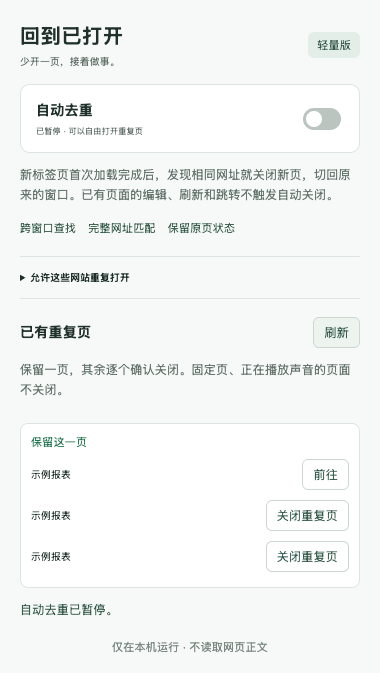
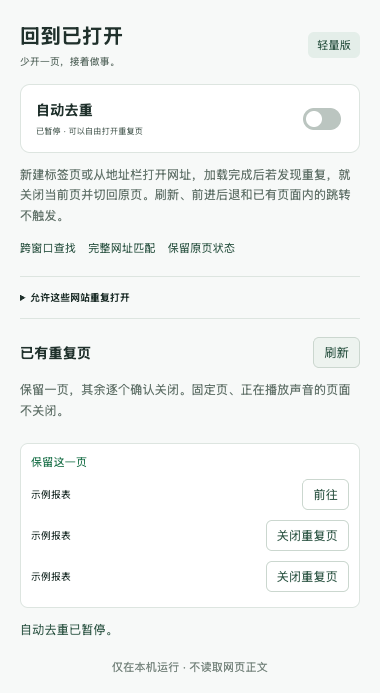
fix: deduplicate address-bar navigation in existing tabs

diff --git a/tests/core.test.js b/tests/core.test.js
@@ -98,6 +98,74 @@ test('已有页跳转、刷新和首次加载结束后的 SPA 跳转都不自动
   assert.equal(f.tabs.size, 3);
 });
 
+const addressNavigation = (id, extra = {}) => ({
+  tabId: id, frameId: 0, url: URL_A, transitionType: 'typed',
+  transitionQualifiers: ['from_address_bar'], ...extra
+});
+
+test('已有标签粘贴网址回车：等待加载完成，再关闭当前页并保留原页', async () => {
+  const f = fixture([tab(1), tab(2, { status: 'loading' })]);
+  const c = f.controller();
+  await c.committed(addressNavigation(2));
+  assert.equal(f.tabs.size, 2);
+  f.tabs.get(2).status = 'complete';
+  await c.updated(2);
+  assert.deepEqual([...f.tabs.keys()], [1]);
+});
+
+test('地址栏选择建议产生 link 类型时仍可去重', async () => {
+  const f = fixture([tab(1), tab(2)]);
+  await f.controller().committed(addressNavigation(2, { transitionType: 'link' }));
+  assert.deepEqual([...f.tabs.keys()], [1]);
+});
+
+test('刷新、前进后退、站内点击、表单和子框架不会激活已有页去重', async () => {
+  for (const extra of [
+    { transitionType: 'reload' },
+    { transitionQualifiers: ['from_address_bar', 'forward_back'] },
+    { transitionType: 'link', transitionQualifiers: [] },
+    { transitionType: 'form_submit', transitionQualifiers: [] },
+    { frameId: 1 }
+  ]) {
+    const f = fixture([tab(1), tab(2)]);
+    const c = f.controller();
+    await c.committed(addressNavigation(2, extra));
+    await c.updated(2);
+    assert.equal(f.tabs.size, 2);
+  }
+});
+
+test('地址栏资格不沿用到后续站内导航，也不关闭不同查询的页面', async () => {
+  const f = fixture([tab(1), tab(2, { status: 'loading' })]);
+  const c = f.controller();
+  await c.committed(addressNavigation(2));
+  await c.committed(addressNavigation(2, { transitionType: 'link', transitionQualifiers: [] }));
+  f.tabs.get(2).status = 'complete';
+  await c.updated(2);
+  assert.equal(f.tabs.size, 2);
+  f.tabs.get(2).url = URL_A.replace('100', '101');
+  await c.committed(addressNavigation(2, { url: f.tabs.get(2).url }));
+  assert.equal(f.tabs.size, 2);
+});
+
+test('地址栏导航同样遵守暂停、排除、固定、声音和无痕保护', async () => {
+  for (const extra of [{ pinned: true }, { audible: true }, { incognito: true }]) {
+    const f = fixture([tab(1), tab(2, extra)]);
+    await f.controller().committed(addressNavigation(2));
+    assert.equal(f.tabs.size, 2);
+  }
+  for (const settings of [
+    { enabled: false, excludedHosts: [] },
+    { enabled: true, excludedHosts: ['work.example'] }
+  ]) {
+    const f = fixture([tab(1), tab(2)]);
+    const c = f.controller();
+    await c.setSettings(settings);
+    await c.committed(addressNavigation(2));
+    assert.equal(f.tabs.size, 2);
+  }
+});
+
 test('新空白页可稍后输入地址；慢加载超过一分钟不再自动关闭', async () => {
   const f = fixture();
   const c = f.controller();

diff --git a/extension/core.js b/extension/core.js
@@ -115,7 +115,7 @@ export function createController(api, now = Date.now) {
     const candidate = session.pending[id];
     if (!candidate) return;
     const tab = await getTab(id);
-    if (!tab || !settings.enabled || now() < session.skipUntil) {
+    if (!tab || !settings.enabled || (now() < session.skipUntil && !candidate.committedUrl)) {
       delete session.pending[id];
       await saveSession();
       return;
@@ -136,6 +136,8 @@ export function createController(api, now = Date.now) {
     // 首个网页加载完成后结束资格，后续编辑和站内跳转不触发。
     delete session.pending[id];
     await saveSession();
+    // 地址栏导航完成前又跳到其他页面时，旧导航资格不能沿用。
+    if (candidate.committedUrl && tab.url !== candidate.committedUrl) return;
     const key = pageKey(tab, settings);
     if (!key || !canClose(tab)) return;
     const tabs = await api.tabs.query({});
@@ -153,6 +155,25 @@ export function createController(api, now = Date.now) {
       await inspect(tab.id);
     }),
     updated: id => run(() => inspect(id)),
+    committed: details => run(async () => {
+      if (details.frameId !== 0) return;
+      const qualifiers = details.transitionQualifiers || [];
+      const fromAddressBar = details.transitionType !== 'reload' &&
+        !qualifiers.includes('forward_back') &&
+        (details.transitionType === 'typed' || qualifiers.includes('from_address_bar'));
+      if (!fromAddressBar) {
+        // 页面点击、表单提交或后退不能继承前一次地址栏导航的去重资格。
+        if (session.pending[details.tabId]?.committedUrl) {
+          delete session.pending[details.tabId];
+          await saveSession();
+        }
+        return;
+      }
+      if (!settings.enabled || !/^https?:\/\//.test(details.url)) return;
+      session.pending[details.tabId] = { startedAt: now(), committedUrl: details.url };
+      await saveSession();
+      await inspect(details.tabId);
+    }),
     removed: id => run(async () => {
       delete session.pending[id];
       await saveSession();

diff --git a/extension/popup.js b/extension/popup.js
@@ -22,7 +22,7 @@ function action(button, task) {
 function updateMode() {
   $('#enabled').checked = settings.enabled;
   $('#enabled').disabled = false;
-  $('#mode').textContent = settings.enabled ? '已开启 · 新开的重复页自动返回' : '已暂停 · 可以自由打开重复页';
+  $('#mode').textContent = settings.enabled ? '已开启 · 重复打开自动返回' : '已暂停 · 可以自由打开重复页';
 }
 function tabRow(tab, label, task) {
   const row = document.createElement('div');
@@ -74,7 +74,7 @@ $('#enabled').addEventListener('change', async () => {
   $('#enabled').disabled = true;
   try {
     settings = await send('settings', { value: { ...settings, enabled: $('#enabled').checked } });
-    status(settings.enabled ? '已恢复，从之后新开的标签页开始处理。' : '自动去重已暂停。');
+    status(settings.enabled ? '已恢复，从下一次新建标签或地址栏导航开始处理。' : '自动去重已暂停。');
   } catch (error) { status(error.message, true); }
   finally { updateMode(); }
 });

diff --git a/extension/popup.html b/extension/popup.html
@@ -16,7 +16,7 @@
       <span><strong>自动去重</strong><small id="mode">正在读取设置…</small></span>
       <input type="checkbox" id="enabled" role="switch" disabled>
     </label>
-    <p class="hint">新标签页首次加载完成后，发现相同网址就关闭新页，切回原来的窗口。已有页面的编辑、刷新和跳转不触发自动关闭。</p>
+    <p class="hint">新建标签页或从地址栏打开网址，加载完成后若发现重复，就关闭当前页并切回原页。刷新、前进后退和已有页面内的跳转不触发。</p>
     <div class="rules"><span>跨窗口查找</span><span>完整网址匹配</span><span>保留原页状态</span></div>
     <details>
       <summary>允许这些网站重复打开</summary>

diff --git a/extension/background.js b/extension/background.js
@@ -9,6 +9,9 @@ chrome.tabs.onCreated.addListener(tab => { controller.created(tab).catch(report)
 chrome.tabs.onUpdated.addListener((id, changes) => {
   if (changes.status || changes.url) controller.updated(id).catch(report);
 });
+chrome.webNavigation.onCommitted.addListener(details => {
+  controller.committed(details).catch(report);
+});
 chrome.tabs.onRemoved.addListener(id => { controller.removed(id).catch(report); });
 chrome.runtime.onStartup.addListener(() => { controller.startup().catch(report); });
 chrome.runtime.onInstalled.addListener(() => { controller.ready().catch(report); });

diff --git a/docs/VALIDATION.md b/docs/VALIDATION.md
@@ -1,17 +1,20 @@
-# 1.0.0 验证记录
+# 1.0.1 验证记录
 
 日期：2026-10-27。环境：macOS、Node.js 26.4.0、Playwright 1.58.2、Google Chrome for Testing 145.0.7632.6。
 
 ## 已通过
 
-- `npm test`：16 项行为测试通过，包含精确 URL 匹配、并发处理、暂停、排除、原页变化、关闭前复核、后台状态恢复和启动宽限。
-- `npm run check`：JavaScript 语法、Manifest V3、两项权限、文件引用及无远程请求检查通过。
-- `npm run test:browser`：独立测试浏览器加载真实扩展，同窗口与跨窗口去重、原页未提交输入保留、不同查询参数及锚点、HTTP 重定向、已有页导航保护、中文 UI、暂停、排除、手动确认关闭全部通过。
+- `npm test`：21 项行为测试通过，包含精确 URL 匹配、并发处理、暂停、排除、原页变化、关闭前复核、后台状态恢复和启动宽限；新增地址栏导航与导航来源保护测试。
+- `npm run check`：JavaScript 语法、Manifest V3、三项权限、文件引用及无远程请求检查通过。
+- `npm run test:browser`：独立测试浏览器加载真实扩展，同窗口与跨窗口去重、原页未提交输入保留、不同查询参数及锚点、HTTP 重定向、站内跳转与刷新保护、中文 UI、暂停、排除、手动确认关闭全部通过。
+- 使用 CDP `Page.navigate` 的 `transitionType: typed` 导航已有标签，确认真实 `webNavigation.onCommitted` 收到 typed 事件，重复页自动关闭，原页未提交输入保留。此项验证导航事件与处理结果，地址栏粘贴的实际 UI 操作另外验收。
 - 在 `chrome://serviceworker-internals` 实际停止扩展后台，确认 STOPPED；随后通过扩展页唤醒，确认 RUNNING，继续验证自动关闭重复页通过。
 - 安装包生成成功，保留许可证、来源说明、中文文档和扩展源代码。运行目录约 27 KB，零运行时依赖。
 - 中文弹窗截图已人工查看，无截断或重叠。
 
 ## 尚需日常 Chrome 验收
+
+本次已将 1.0.1 运行文件复制到用户原安装目录，并在扩展详情页尝试重新加载。随后该详情页显示为空白，无法读到版本号，因此尚未确认日常 Chrome 已启用 1.0.1，也未完成实际地址栏粘贴 Coral 链接的验收。不要将独立浏览器测试结果视为这一步已完成。
 
 `HEADED=1 npm run test:browser` 的系统窗口焦点检查出现过成功，也出现过超时。超时时测试浏览器所有窗口都返回 `focused: false`，未满足“测试浏览器处于前台”的条件，因此不将有界面全套验证记为通过。无界面测试仅证明原标签被选中、正确窗口收到激活请求，以及重复页被关闭。
 
